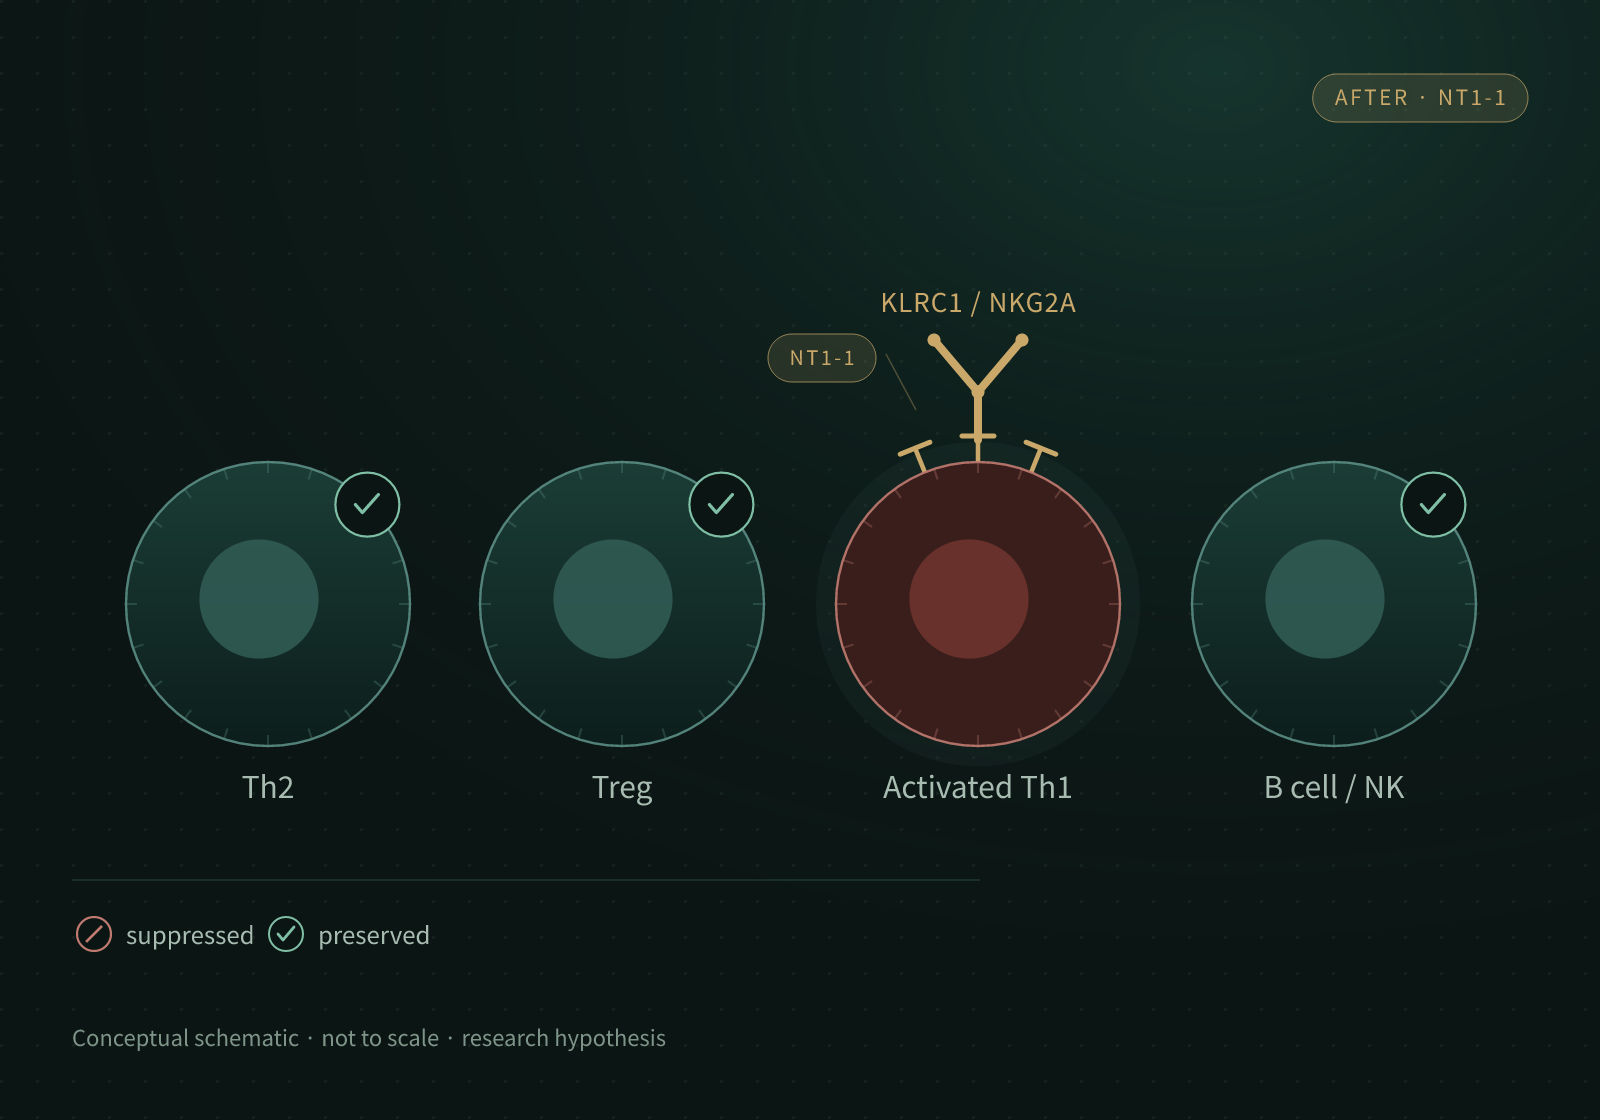
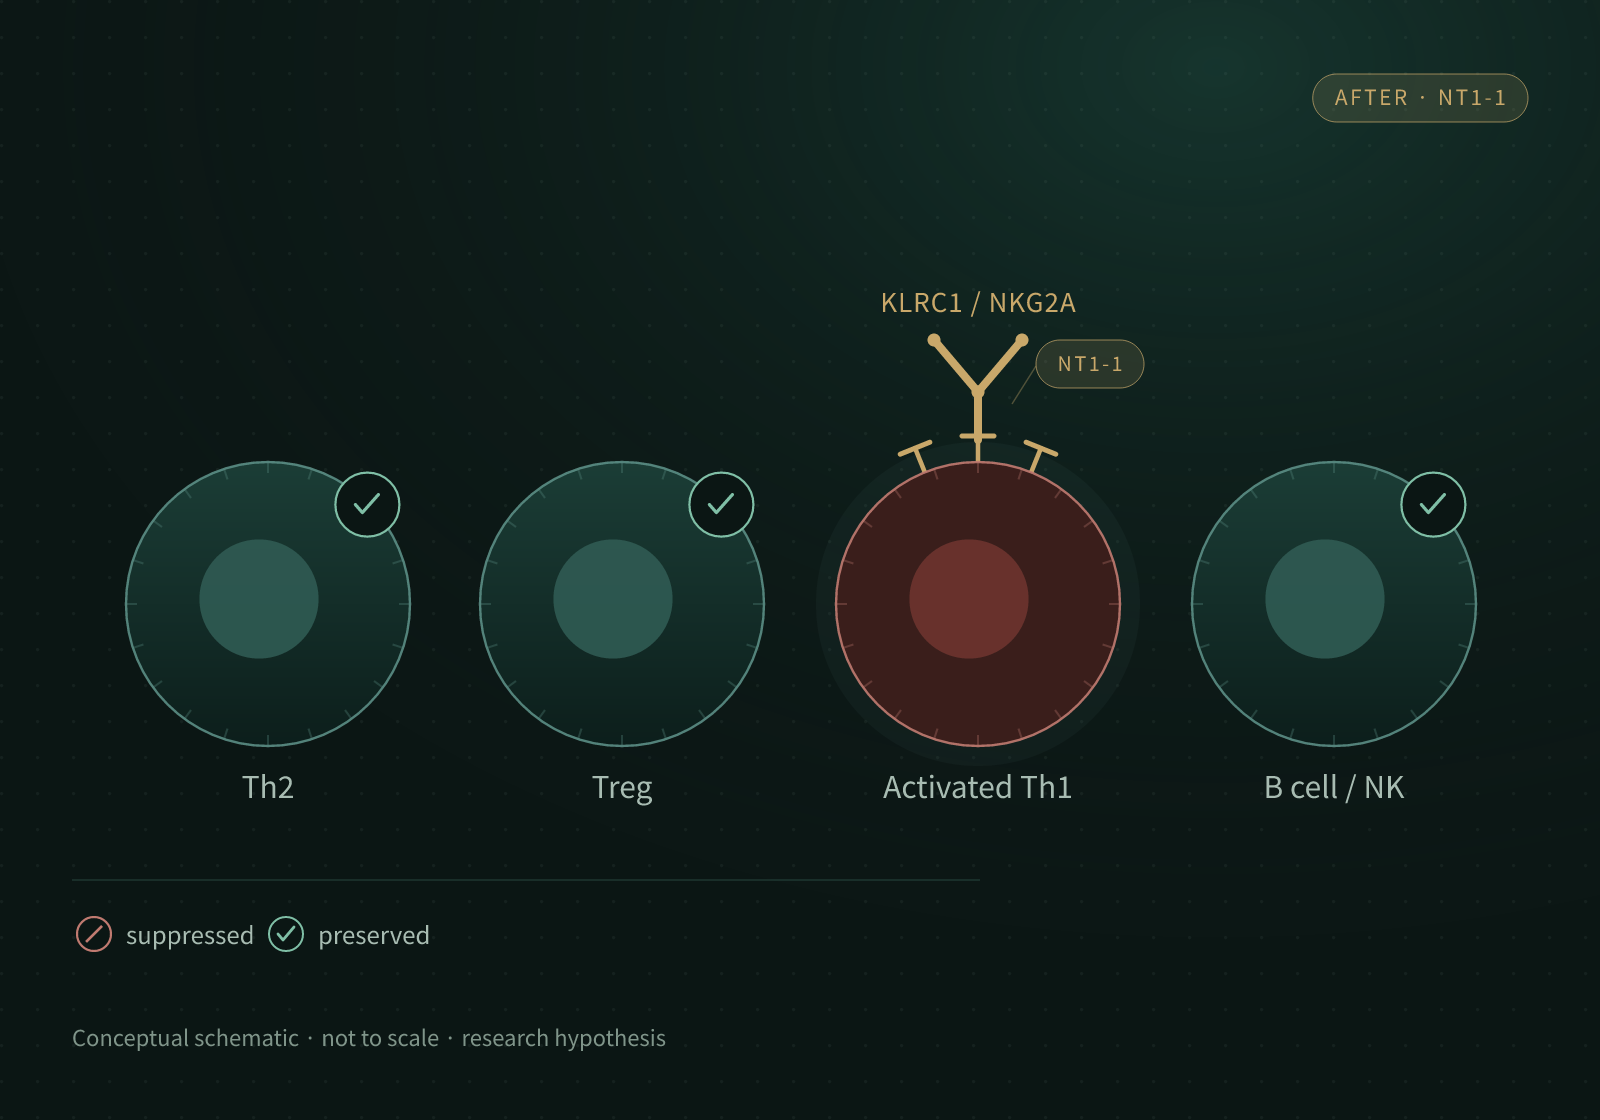
Mechanism scene: keep the NT1-1 chip clear of the slider seam; temporary layout-check page

Changed region(s): [[0.625, 0.2812, 0.7188, 0.375], [0.4688, 0.2812, 0.5625, 0.3438]]

diff --git a/index.html b/index.html
@@ -261,7 +261,7 @@ img-comparison-slider.noslider img+img{display:none}
 <div class="molstage" id="mol-stage"><div class="molstatus" id="mol-status" data-ko="구조 불러오는 중…">Loading structure…</div><span class="molhint" data-ko="드래그 회전 · 확대">Drag · zoom</span></div>
 <div class="mechfoot" data-ko="PDB 3BDW · 사람 CD94/NKG2A 이종이합체 · 2.5 Å X선 구조 (RCSB PDB). 분자 구조는 표적 결합 가설을 설명하기 위한 참고 자료입니다.">PDB 3BDW · human CD94/NKG2A heterodimer · 2.5 Å X-ray structure (RCSB PDB). The structure is reference material for the target-engagement hypothesis.</div></div>
 <div class="mechcard"><div class="mechhead"><small data-ko="기전 비교">Mechanism comparison</small><h3 data-ko="광범위 면역억제 vs. 선택적 Th1 조절">Broad immunosuppression vs. selective Th1 modulation</h3><p data-ko="가운데 핸들을 좌우로 움직여 두 접근을 비교합니다.">Move the handle left and right to compare the two approaches.</p></div>
-<div class="sliderwrap"><img-comparison-slider tabindex="0" aria-label="Before and after mechanism comparison / 기전 비교"><img slot="first" src="assets/mechanism/mechanism-before-en.png?v=5" data-img-en="assets/mechanism/mechanism-before-en.png?v=5" data-img-ko="assets/mechanism/mechanism-before-ko.png?v=5" data-alt-en="Conceptual schematic: broad immunosuppression suppresses activated Th1 cells together with Th2, Treg, B and NK cells" data-alt-ko="개념 모식도: 광범위 면역억제는 활성 Th1 세포와 함께 Th2, Treg, B, NK 세포를 억제합니다" alt="Conceptual schematic: broad immunosuppression suppresses activated Th1 cells together with Th2, Treg, B and NK cells"><img slot="second" src="assets/mechanism/mechanism-after-en.png?v=5" data-img-en="assets/mechanism/mechanism-after-en.png?v=5" data-img-ko="assets/mechanism/mechanism-after-ko.png?v=5" data-alt-en="Conceptual schematic: NT1-1 engages KLRC1 / NKG2A on activated Th1 cells while other compartments are preserved in the hypothesis" data-alt-ko="개념 모식도: NT1-1은 활성 Th1 세포의 KLRC1 / NKG2A에 결합하고, 가설상 다른 면역 구획은 보존됩니다" alt="Conceptual schematic: NT1-1 engages KLRC1 / NKG2A on activated Th1 cells while other compartments are preserved in the hypothesis"></img-comparison-slider></div>
+<div class="sliderwrap"><img-comparison-slider tabindex="0" aria-label="Before and after mechanism comparison / 기전 비교"><img slot="first" src="assets/mechanism/mechanism-before-en.png?v=6" data-img-en="assets/mechanism/mechanism-before-en.png?v=6" data-img-ko="assets/mechanism/mechanism-before-ko.png?v=6" data-alt-en="Conceptual schematic: broad immunosuppression suppresses activated Th1 cells together with Th2, Treg, B and NK cells" data-alt-ko="개념 모식도: 광범위 면역억제는 활성 Th1 세포와 함께 Th2, Treg, B, NK 세포를 억제합니다" alt="Conceptual schematic: broad immunosuppression suppresses activated Th1 cells together with Th2, Treg, B and NK cells"><img slot="second" src="assets/mechanism/mechanism-after-en.png?v=6" data-img-en="assets/mechanism/mechanism-after-en.png?v=6" data-img-ko="assets/mechanism/mechanism-after-ko.png?v=6" data-alt-en="Conceptual schematic: NT1-1 engages KLRC1 / NKG2A on activated Th1 cells while other compartments are preserved in the hypothesis" data-alt-ko="개념 모식도: NT1-1은 활성 Th1 세포의 KLRC1 / NKG2A에 결합하고, 가설상 다른 면역 구획은 보존됩니다" alt="Conceptual schematic: NT1-1 engages KLRC1 / NKG2A on activated Th1 cells while other compartments are preserved in the hypothesis"></img-comparison-slider></div>
 <div class="mechfoot" data-ko="개념 설명용 모식도 · 실제 비율 아님 · 연구 가설이며 치료 효과는 입증되지 않았습니다.">Conceptual schematics · not to scale · research hypothesis; no therapeutic effect has been established.</div></div>
 </div>
 <div class="statband reveal">

diff --git a/layout-check.html b/layout-check.html
@@ -1,0 +1,68 @@
+<!doctype html>
+<html lang="en"><head>
+<meta charset="utf-8">
+<meta name="robots" content="noindex,nofollow">
+<meta name="viewport" content="width=device-width,initial-scale=1">
+<title>layout check</title>
+<style>
+html,body{margin:0;background:#1b1f1d;color:#e9efe9;font:12px/1.5 Arial,sans-serif}
+.row{display:flex;gap:18px;padding:14px;align-items:flex-start}
+.dev{background:#0b1614;border:1px solid #35544b;padding:8px}
+.dev b{display:block;font-size:11px;letter-spacing:.08em;color:#8fb4a6;margin-bottom:6px}
+iframe{border:0;display:block;background:#fff}
+#out{white-space:pre;font:12px/1.6 monospace;color:#cfe0d5;padding:6px 14px 18px}
+.hide{position:fixed;left:-20000px;top:0}
+</style></head>
+<body>
+<div class="row">
+  <div class="dev"><b>390 × 844</b><iframe id="m390" width="390" height="844" src="./index.html?lang=en"></iframe></div>
+</div>
+<div id="out">measuring…</div>
+<div class="hide" id="hidden"></div>
+<script>
+(function(){
+  var KEY='nextab_th1_unlocked_v1';
+  var widths=[360,390,768,1440];
+  var main=document.getElementById('m390');
+  var hidden=document.getElementById('hidden');
+  var results={};
+
+  function unlock(f){
+    try{f.contentWindow.sessionStorage.setItem(KEY,'1');}catch(e){}
+    f.contentWindow.location.reload();
+  }
+  main.addEventListener('load',function(){unlock(main);},{once:true});
+
+  var pending=widths.length;
+  widths.forEach(function(w){
+    var d=document.createElement('div');
+    d.className='dev';hidden.appendChild(d);
+    var f=document.createElement('iframe');
+    f.id='w'+w;f.width=w;f.height=800;f.src='./index.html?lang=en';
+    d.appendChild(f);
+    f.addEventListener('load',function(){
+      try{f.contentWindow.sessionStorage.setItem(KEY,'1');}catch(e){}
+      f.addEventListener('load',function(){
+        setTimeout(function(){
+          try{
+            var doc=f.contentDocument,de=doc.documentElement;
+            var over=de.scrollWidth-de.clientWidth;
+            var worst=null,max=0;
+            var els=doc.querySelectorAll('body *');
+            for(var i=0;i<els.length;i++){
+              var r=els[i].getBoundingClientRect();
+              if(r.right>de.clientWidth+1&&r.width>max){max=r.width;worst=els[i].className||els[i].tagName;}
+            }
+            results[w]={overflow:over, widest:max? Math.round(max):0, widestEl:String(worst||'').slice(0,40)};
+          }catch(e){results[w]={error:String(e)};}
+          pending--;
+          document.getElementById('out').textContent=JSON.stringify(results,null,1);
+          document.title='check '+pending;
+        },2200);
+      },{once:true});
+      f.contentWindow.location.reload();
+    },{once:true});
+  });
+})();
+</script>
+</body></html>
